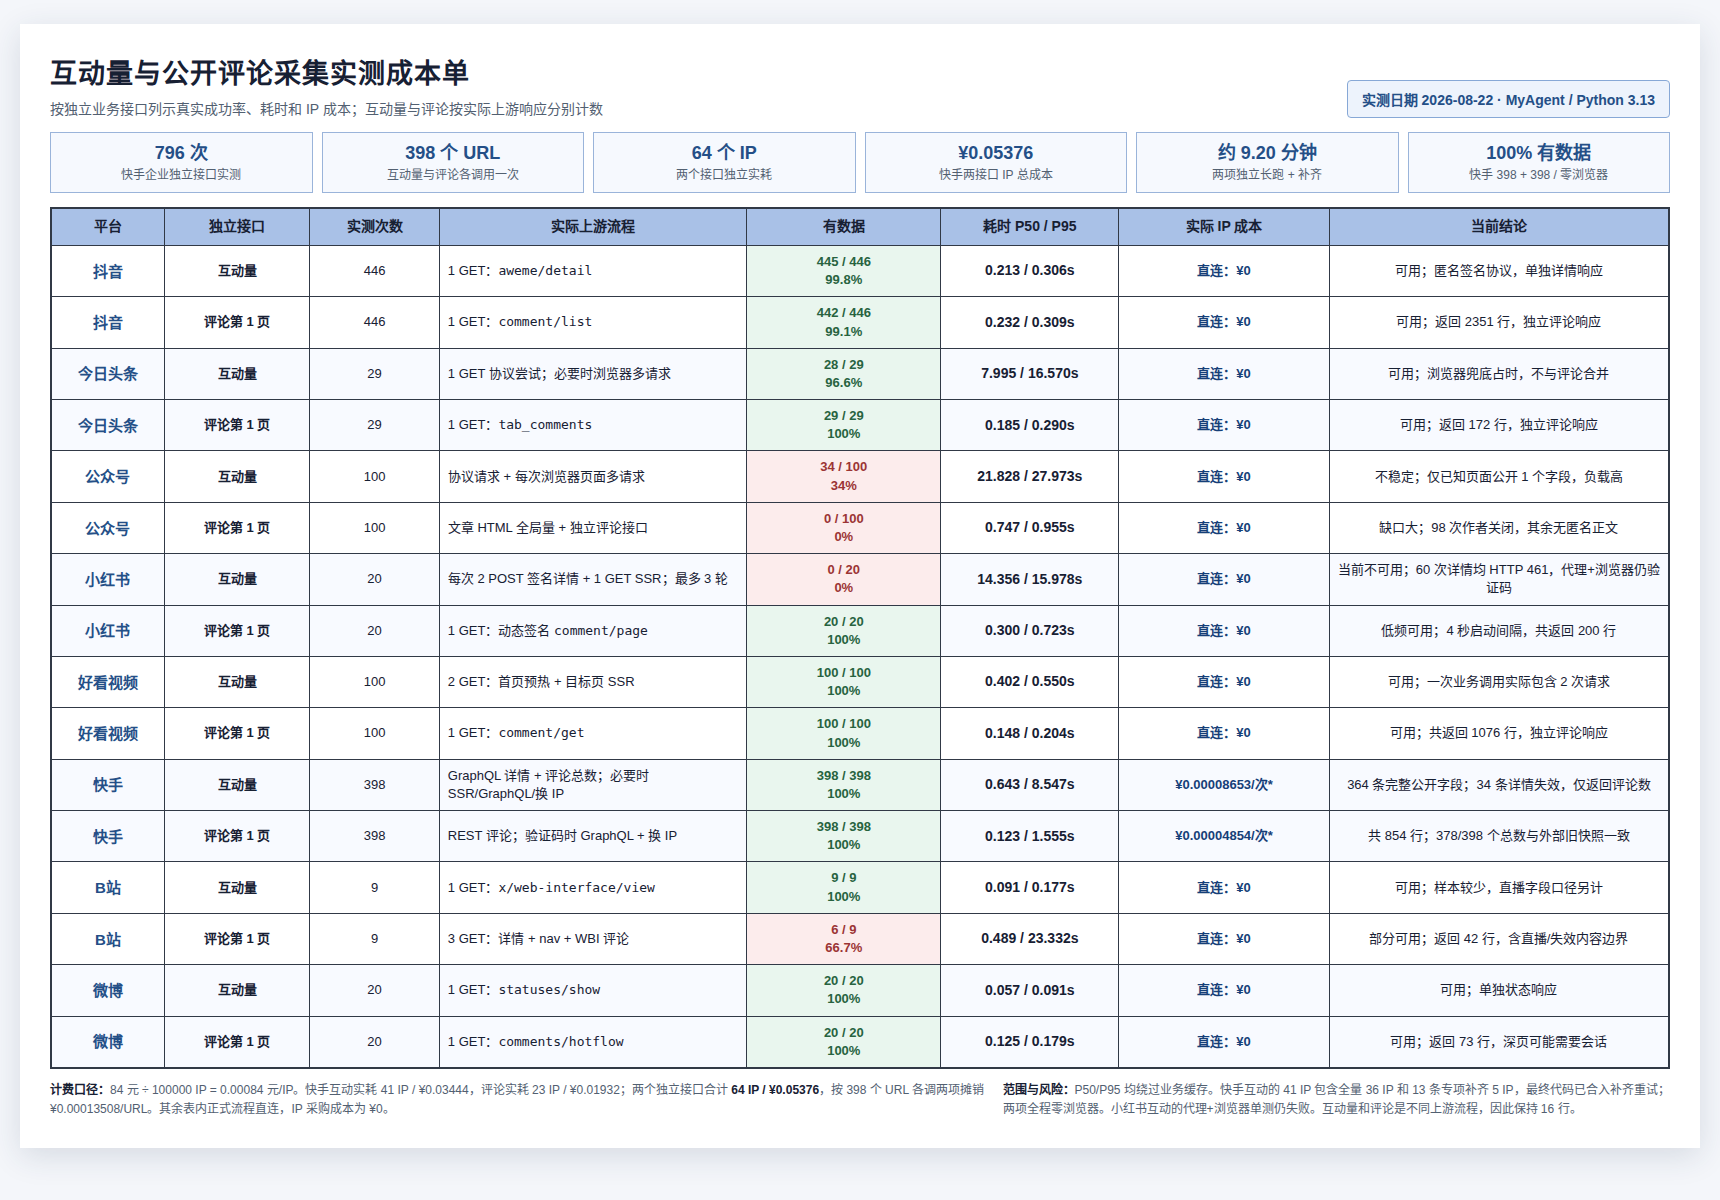
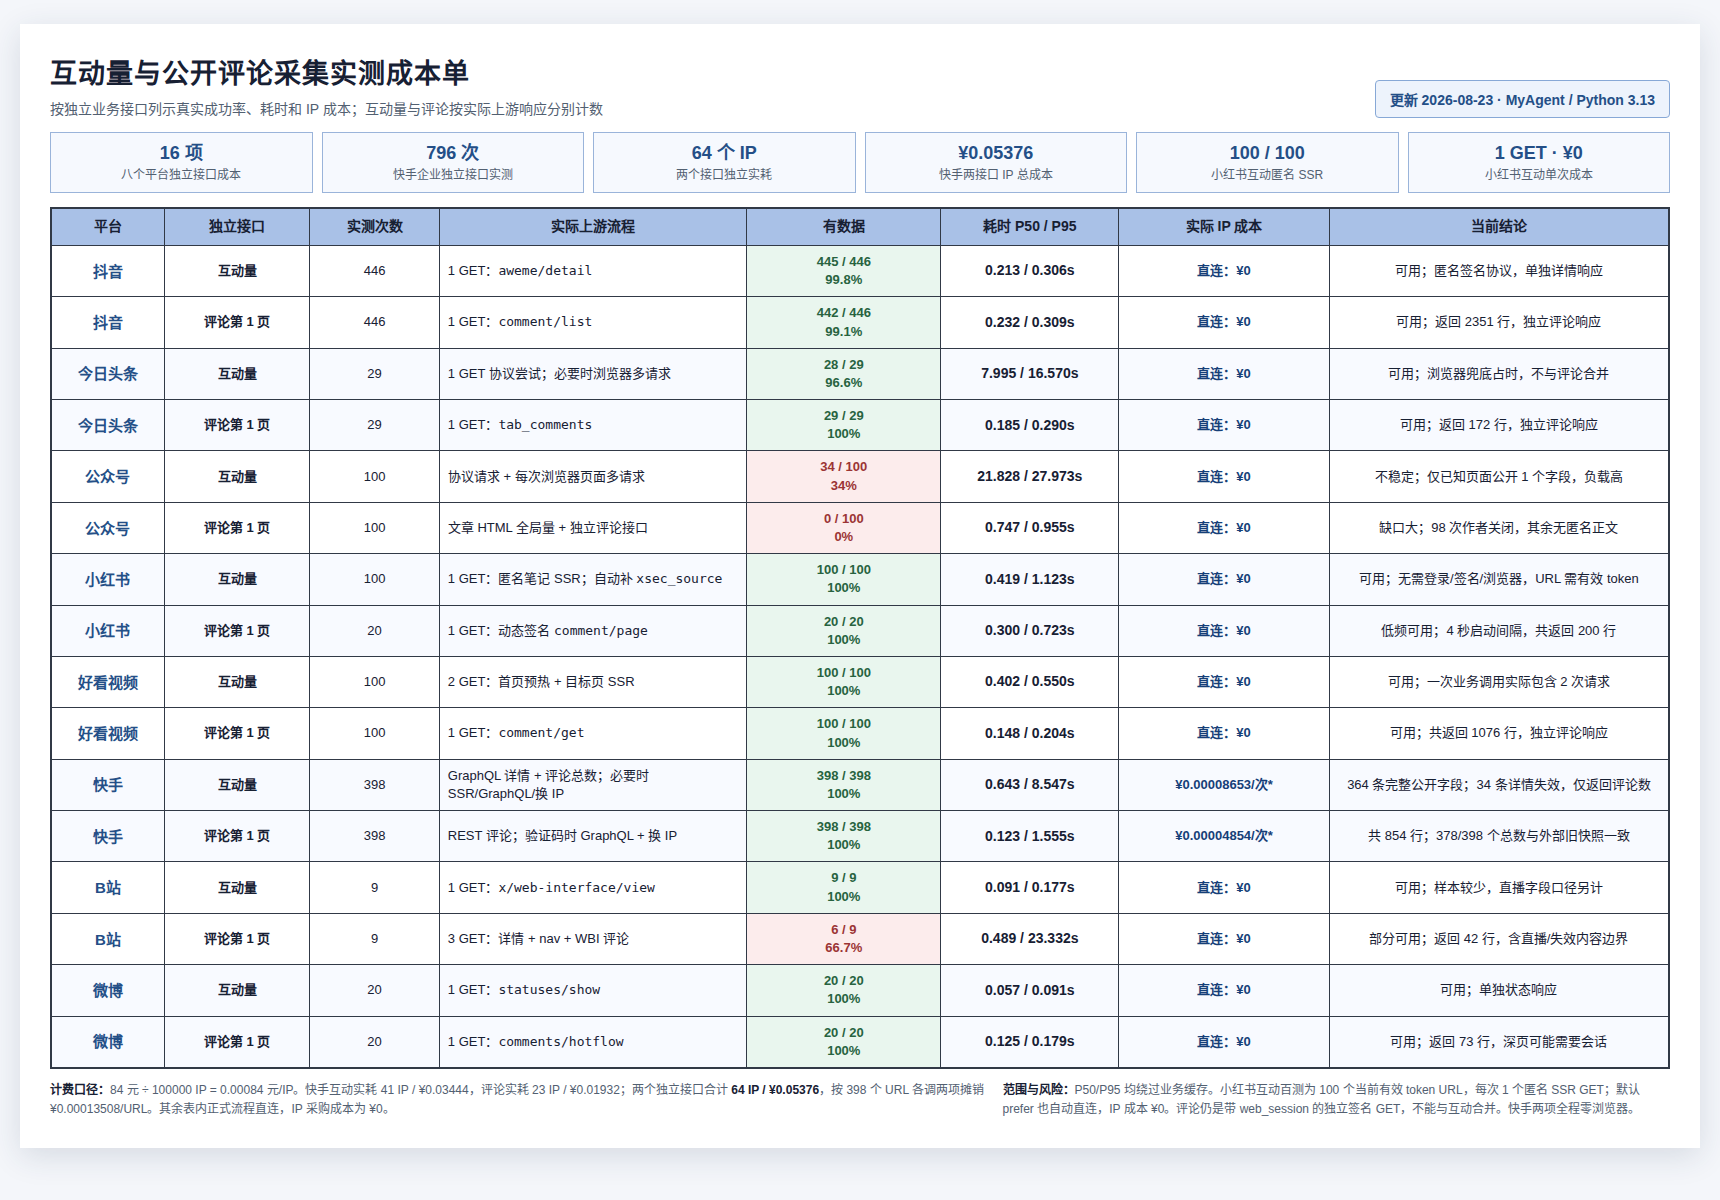
Update engagement cost sheet with Xiaohongshu results

diff --git a/docs/ENGAGEMENT_COST_SHEET.html b/docs/ENGAGEMENT_COST_SHEET.html
@@ -199,16 +199,16 @@
         <h1>互动量与公开评论采集实测成本单</h1>
         <div class="subtitle">按独立业务接口列示真实成功率、耗时和 IP 成本；互动量与评论按实际上游响应分别计数</div>
       </div>
-      <div class="badge">实测日期 2026-08-22 · MyAgent / Python 3.13</div>
+      <div class="badge">更新 2026-08-23 · MyAgent / Python 3.13</div>
     </header>
 
     <section class="summary" aria-label="本轮代理成本摘要">
+      <div class="metric"><strong>16 项</strong><span>八个平台独立接口成本</span></div>
       <div class="metric"><strong>796 次</strong><span>快手企业独立接口实测</span></div>
-      <div class="metric"><strong>398 个 URL</strong><span>互动量与评论各调用一次</span></div>
       <div class="metric"><strong>64 个 IP</strong><span>两个接口独立实耗</span></div>
       <div class="metric"><strong>¥0.05376</strong><span>快手两接口 IP 总成本</span></div>
-      <div class="metric"><strong>约 9.20 分钟</strong><span>两项独立长跑 + 补齐</span></div>
-      <div class="metric"><strong>100% 有数据</strong><span>快手 398 + 398 / 零浏览器</span></div>
+      <div class="metric"><strong>100 / 100</strong><span>小红书互动匿名 SSR</span></div>
+      <div class="metric"><strong>1 GET · ¥0</strong><span>小红书互动单次成本</span></div>
     </section>
 
     <table aria-label="八个平台十六项独立接口成本明细">
@@ -263,10 +263,10 @@
         </tr>
 
         <tr class="group-even">
-          <td class="platform-cell">小红书</td><td class="service-cell">互动量</td><td>20</td>
-          <td class="upstream-cell">每次 2 POST 签名详情 + 1 GET SSR；最多 3 轮</td><td class="result-bad">0 / 20<br>0%</td>
-          <td class="time-cell"><strong>14.356 / 15.978s</strong></td><td class="cost-cell">直连：¥0</td>
-          <td>当前不可用；60 次详情均 HTTP 461，代理+浏览器仍验证码</td>
+          <td class="platform-cell">小红书</td><td class="service-cell">互动量</td><td>100</td>
+          <td class="upstream-cell">1 GET：匿名笔记 SSR；自动补 <code>xsec_source</code></td><td class="result-ok">100 / 100<br>100%</td>
+          <td class="time-cell"><strong>0.419 / 1.123s</strong></td><td class="cost-cell">直连：¥0</td>
+          <td>可用；无需登录/签名/浏览器，URL 需有效 token</td>
         </tr>
         <tr class="group-even">
           <td class="platform-cell">小红书</td><td class="service-cell">评论第 1 页</td><td>20</td>
@@ -331,7 +331,7 @@
 
     <section class="notes">
       <p><strong>计费口径：</strong>84 元 ÷ 100000 IP = 0.00084 元/IP。快手互动实耗 41 IP / ¥0.03444，评论实耗 23 IP / ¥0.01932；两个独立接口合计 <strong>64 IP / ¥0.05376</strong>，按 398 个 URL 各调两项摊销 ¥0.00013508/URL。其余表内正式流程直连，IP 采购成本为 ¥0。</p>
-      <p><strong>范围与风险：</strong>P50/P95 均绕过业务缓存。快手互动的 41 IP 包含全量 36 IP 和 13 条专项补齐 5 IP，最终代码已合入补齐重试；两项全程零浏览器。小红书互动的代理+浏览器单测仍失败。互动量和评论是不同上游流程，因此保持 16 行。</p>
+      <p><strong>范围与风险：</strong>P50/P95 均绕过业务缓存。小红书互动百测为 100 个当前有效 token URL，每次 1 个匿名 SSR GET；默认 prefer 也自动直连，IP 成本 ¥0。评论仍是带 web_session 的独立签名 GET，不能与互动合并。快手两项全程零浏览器。</p>
     </section>
   </main>
 </body>
